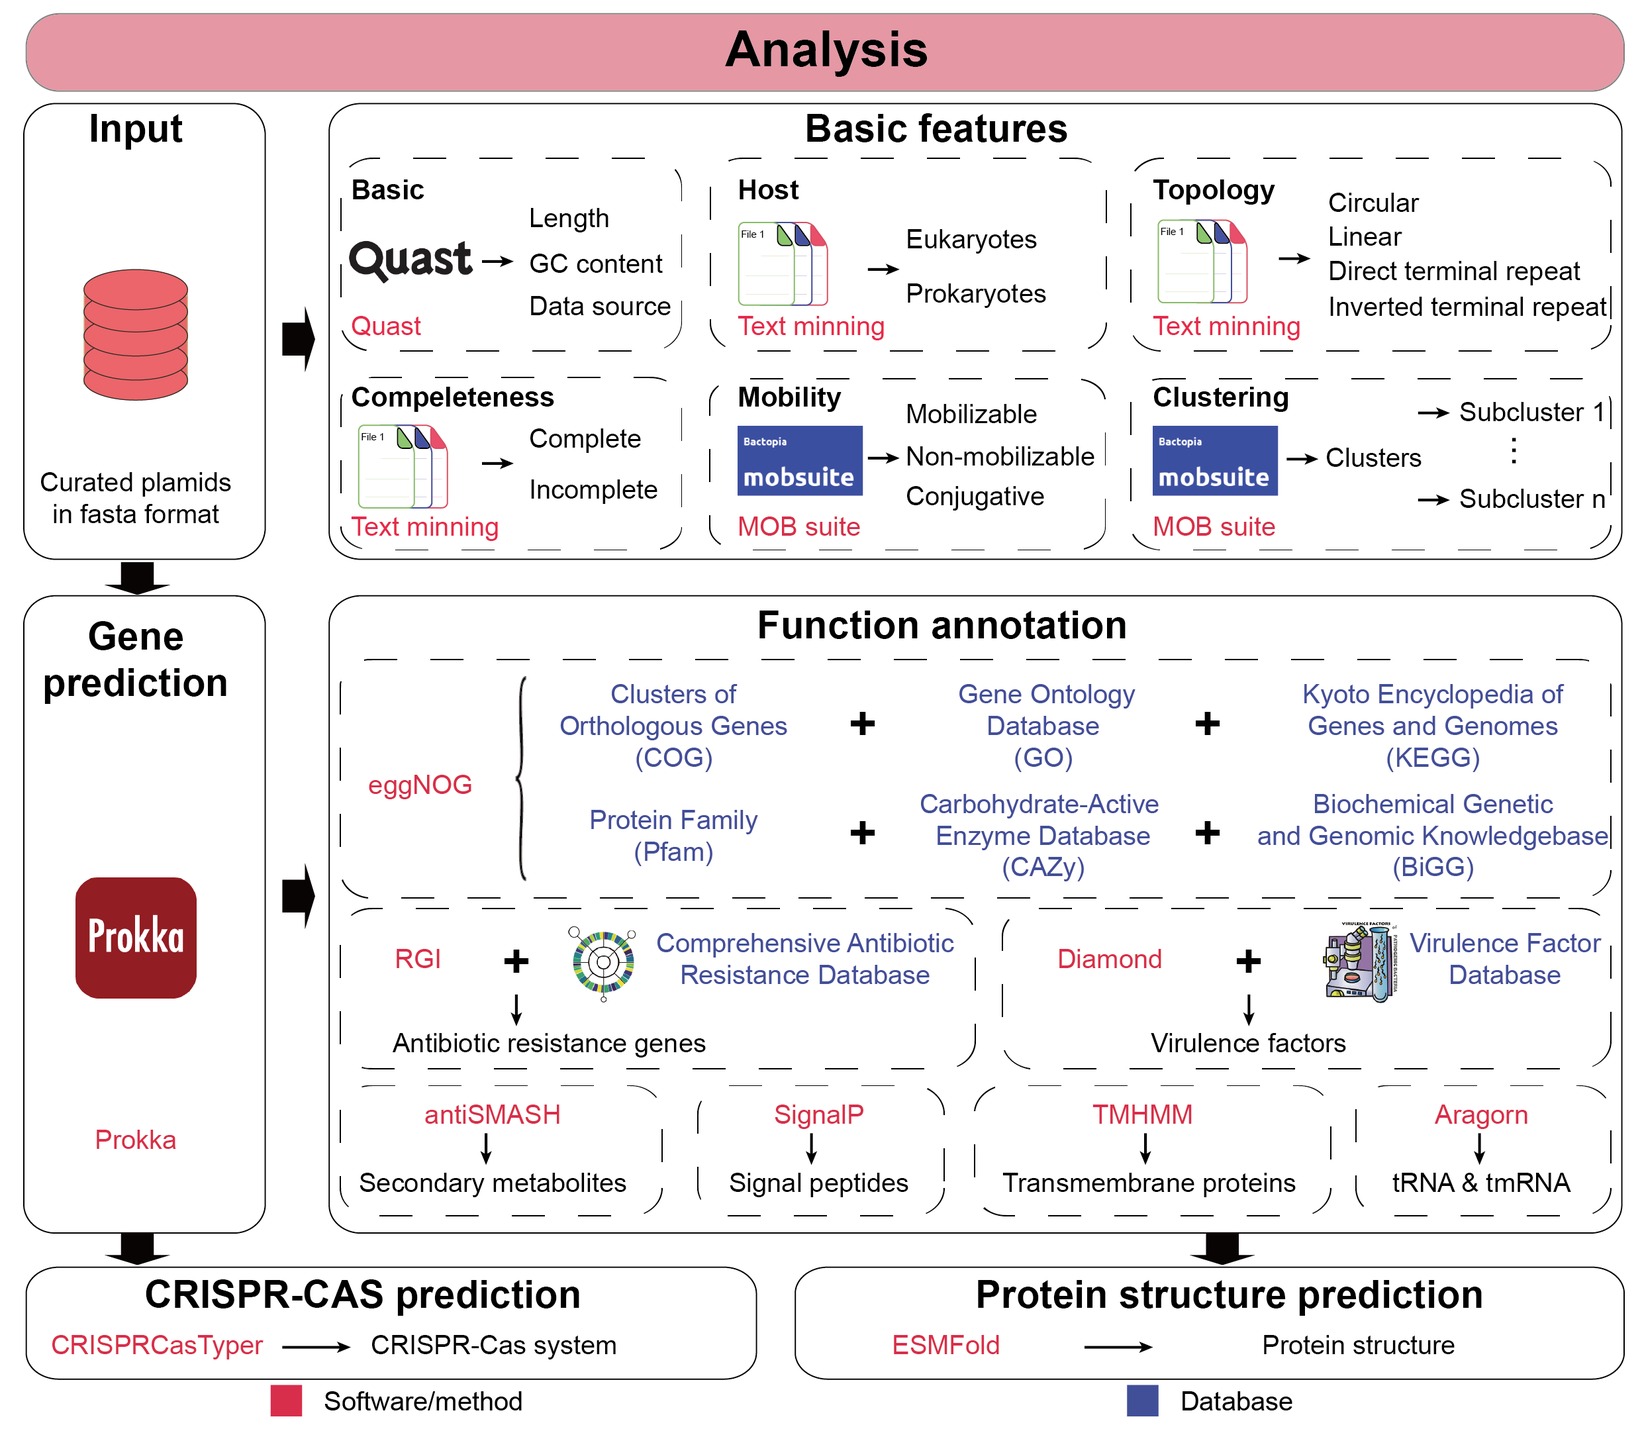
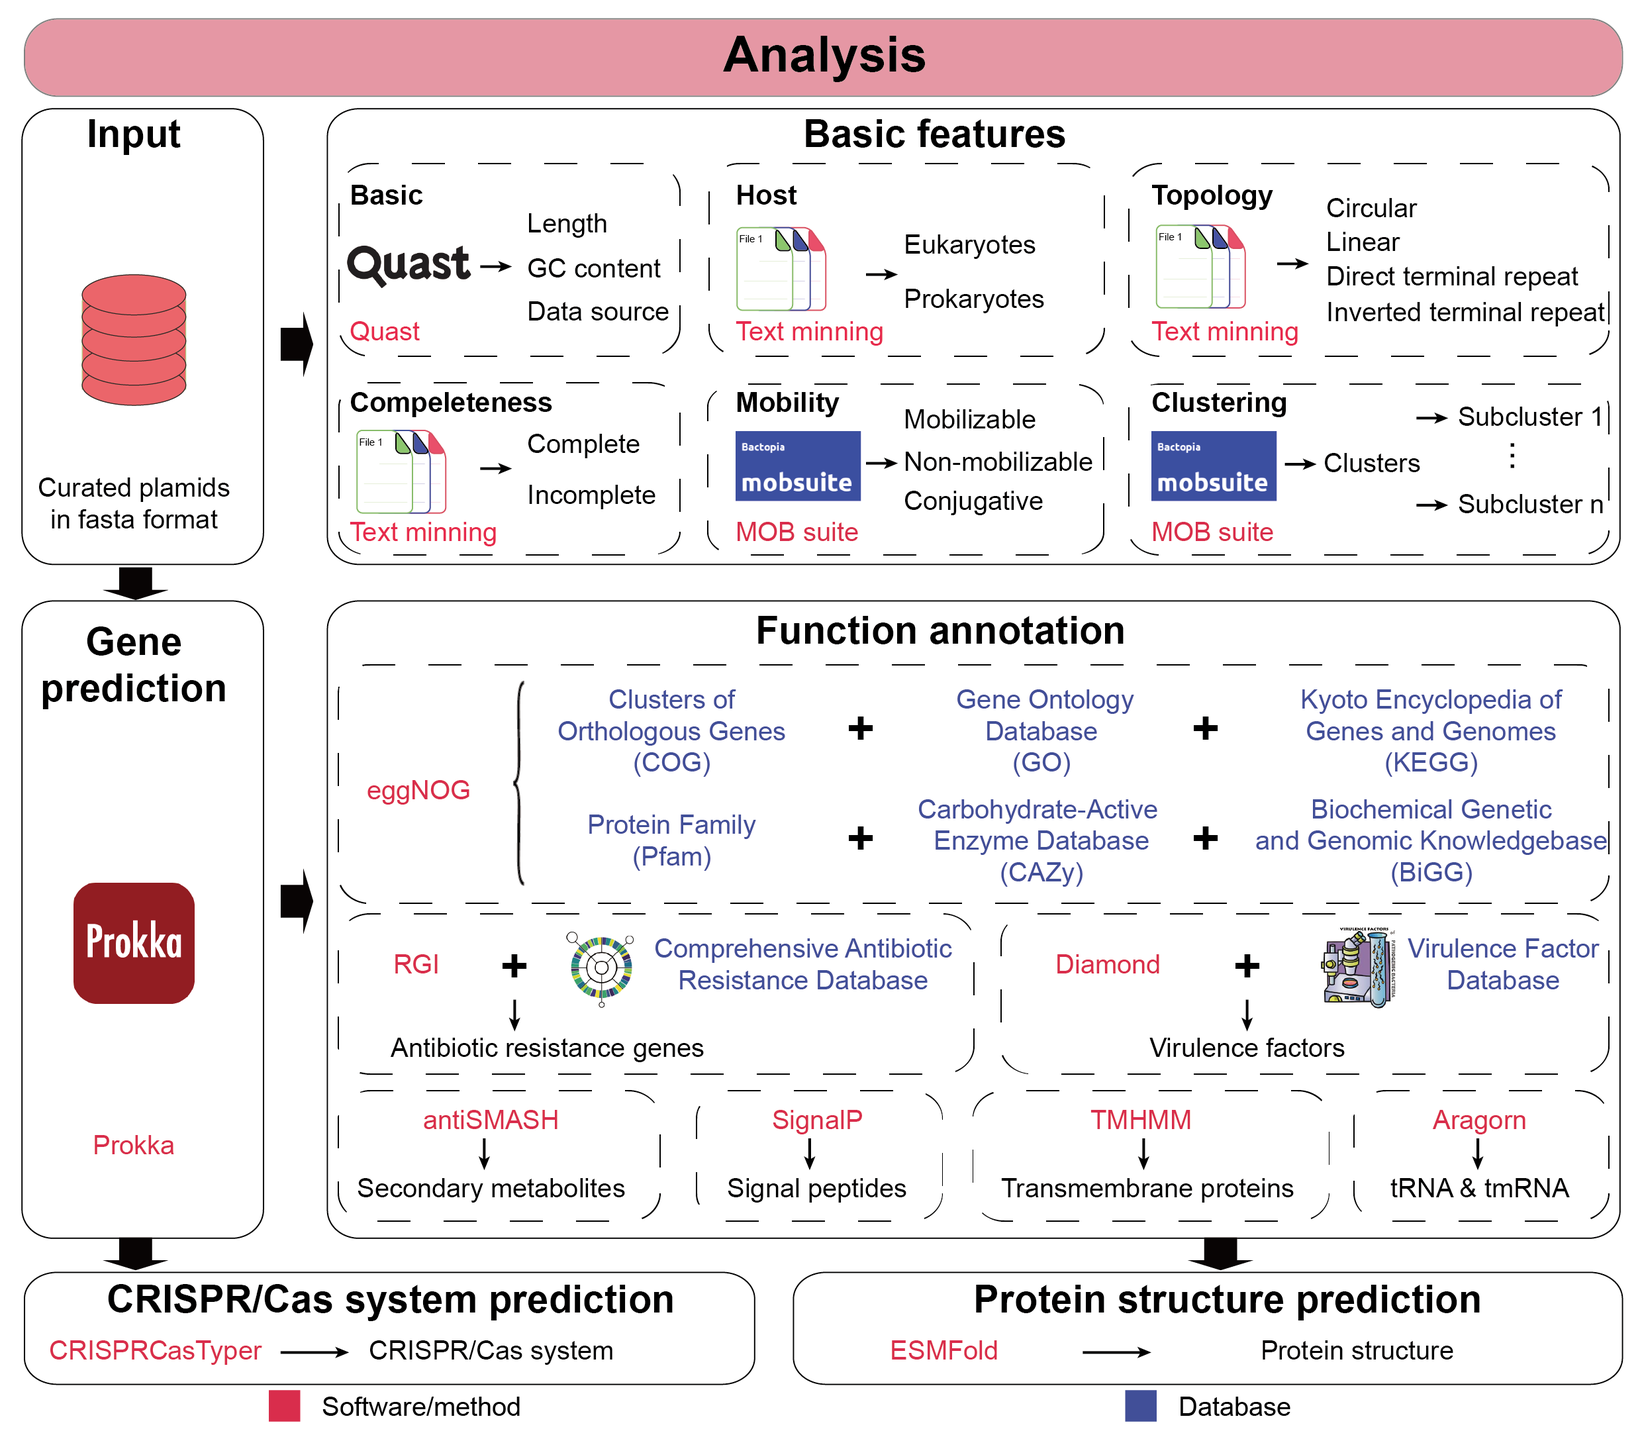
fix bug

diff --git a/src/pages/database/plasmid/crispr.vue b/src/pages/database/plasmid/crispr.vue
@@ -2,14 +2,14 @@
     <div v-show="phageStore.phagecrispr.length !== 0">
         <div>
             <div class="text-4xl font-500 mb-8 w-350 border-b-2 border-gray-300 pb-4">
-                CRISPR-Cas List
+                CRISPR/Cas system List
             </div>
             <div class="flex flex-row w-350 justify-between mb-5 mt-8">
                 <el-button @click="downloadtsv">
                     <template #icon>
                         <n-icon><di /></n-icon>
                     </template>
-                    Download CRISPR-Cas Data
+                    Download CRISPR/Cas Data
                 </el-button>
             </div>
             <div class="flex w-350">
@@ -23,7 +23,7 @@
             </div>
         </div>
 
-        <div class="text-2xl font-500 my-10">Annotated Genome Map with CRISPR-Cas</div>
+        <div class="text-2xl font-500 my-10">Annotated Genome Map with CRISPR/Cas</div>
         <div
             style="box-shadow: 0 0 64px #cfd5db"
             class="w-310 h-300 ml-15"
@@ -32,7 +32,7 @@
             <crisprcirco />
         </div>
     </div>
-    <el-dialog v-model="crisprVisible" title="CRISPR Detail" width="80%">
+    <el-dialog v-model="crisprVisible" title="CRISPR/CAS system Detail" width="80%">
         <el-descriptions class="text-lg" :column="2" size="large" border>
             <el-descriptions-item>
                 <template #label>
@@ -84,7 +84,7 @@
             </el-descriptions-item>
             <el-descriptions-item>
                 <template #label>
-                    <div class="cell-item">CRISPR-Cas Consenus Prediction</div>
+                    <div class="cell-item">CRISPR/Cas Consenus Prediction</div>
                 </template>
                 {{ crisprInfo.cas_consenus_prediction }}
             </el-descriptions-item>

diff --git a/src/pages/download/index.vue b/src/pages/download/index.vue
@@ -156,7 +156,7 @@
             </div>
             <div class="w-280 mt-10">
                 <div class="w-280 bg-[rgb(18,49,73)] text-gray-50 p-4 text-[20px] font-600">
-                    <div>CRISPR-CAS Meta Data Download</div>
+                    <div>CRISPR/Cas Meta Data Download</div>
                     <div></div>
                 </div>
 
@@ -169,7 +169,7 @@
                         <div
                             class="w-160 border-r-1 border-gray-700 h-13 flex-row flex pl-4 items-center text-[19px]"
                         >
-                            {{ source }} Plasmid CRISPR-CAS Meta Data
+                            {{ source }} Plasmid CRISPR/Cas Meta Data
                         </div>
                         <div class="w-120 flex flex-row items-center justify-start">
                             <n-button class="ml-10 w-23 h-7 text-lg" text>
@@ -179,7 +179,7 @@
                                     </n-icon>
                                 </template>
                                 <a
-                                    :href="`https://plasmidapi.deepomics.org/api/database/files/${source}/data/${source}.CRISPR-Cas_list.xls`"
+                                    :href="`https://plasmidapi.deepomics.org/api/database/files/${source}/data/${source}.CRISPR/Cas_list.xls`"
                                     target="_blank"
                                     class="btn"
                                 >

diff --git a/src/pages/task/result/annopipline/crispr.vue b/src/pages/task/result/annopipline/crispr.vue
@@ -62,7 +62,7 @@
         <el-descriptions class="w-330 text-xl ml-10" :column="1" size="large" border>
             <el-descriptions-item>
                 <template #label>
-                    <div class="cell-item">CRISPR-Cas_summary.tsv</div>
+                    <div class="cell-item">CRISPR/Cas_summary.tsv</div>
                 </template>
                 <n-button class="w-23 h-7 text-lg ml-20" text>
                     <template #icon>
@@ -314,10 +314,10 @@ const pagination = reactive({
         pagination.page = 1
     },
 })
-/// home/platform/phage_db/phage_api/workspace/user_task/1690810085_6563/output/rawdata/crispr/output/TSV/CRISPR-Cas_summary.tsv
+/// home/platform/phage_db/phage_api/workspace/user_task/1690810085_6563/output/rawdata/crispr/output/TSV/CRISPR/Cas_summary.tsv
 const urldict = computed(() => {
     return {
-        summary: `https://plasmidapi.deepomics.org/api/analysis/download_task_result_output_file/${taskdetail.value.uploadpath}/output/rawdata/crispr/output/TSV/CRISPR-Cas_summary.tsv`,
+        summary: `https://plasmidapi.deepomics.org/api/analysis/download_task_result_output_file/${taskdetail.value.uploadpath}/output/rawdata/crispr/output/TSV/CRISPR/Cas_summary.tsv`,
         report: `https://plasmidapi.deepomics.org/api/analysis/download_task_result_output_file/${taskdetail.value.uploadpath}/output/rawdata/crispr/output/TSV/Crisprs_REPORT.tsv`,
     }
 })

diff --git a/src/pages/database/function/crispr.vue b/src/pages/database/function/crispr.vue
@@ -1,7 +1,7 @@
 <template>
     <div class="h-680 flex flex-col py-5 px-20">
         <div class="flex flex-row ml-1 my-7">
-            <div class="text-4xl font-600">CRIRSPR-CAS systems Information</div>
+            <div class="text-4xl font-600">CRISPR/Cas systems Information</div>
             <el-button round color="#069" class="ml-5 mt-2" @click="godatahelper">
                 Database Helper
             </el-button>
@@ -118,7 +118,7 @@
             </el-descriptions-item>
             <el-descriptions-item>
                 <template #label>
-                    <div class="cell-item">CRISPR-Cas Consenus Prediction</div>
+                    <div class="cell-item">CRISPR/Cas Consenus Prediction</div>
                 </template>
                 {{ crisprInfo.cas_consenus_prediction }}
             </el-descriptions-item>

diff --git a/src/pages/index.vue b/src/pages/index.vue
@@ -127,7 +127,7 @@
                                 {{ overview_data.crispr }}
                             </strong>
                             <strong class="text-[#069] font-400 ml-1 text-[21px]">
-                                CRISPR-CAS systems,
+                                CRISPR/Cas systems,
                             </strong>
                             <strong class="text-2xl font-600 text-[#069] ml-1">
                                 {{ overview_data.vf }}

diff --git a/src/pages/database/index.vue b/src/pages/database/index.vue
@@ -133,7 +133,7 @@
                             show-separator
                         />
                         <template #label>
-                            <h1 class="text-[#069] text-lg font-700">CRIRSPR-CAS systems</h1>
+                            <h1 class="text-[#069] text-lg font-700">CRISPR/Cas systems</h1>
                         </template>
                     </n-statistic>
                 </div>

diff --git a/src/layouts/components/SiteHeader.vue b/src/layouts/components/SiteHeader.vue
@@ -110,7 +110,7 @@ const menuOptions: MenuOption[] = [
                         key: '/database/function/trna',
                     },
                     {
-                        label: 'CRIRSPR-CAS systems List',
+                        label: 'CRISPR/Cas systems List',
                         key: '/database/function/crispr',
                     },
                     {

diff --git a/src/pages/database/plasmid/detail.vue b/src/pages/database/plasmid/detail.vue
@@ -1,6 +1,6 @@
 <template>
-    <div class="flex flex-col mx-1/10 justify-start">
-        <div class="w-300 mt-18 ml-10">
+    <div class="m-auto w-5/6 mt-9 mb-4">
+        <div>
             <div class="flex flex-row w-350 border-b-2 border-gray-300">
                 <div class="text-4xl font-500 mb-8">Plasmid Informtion</div>
                 <div class="mt-1.5 ml-10">

diff --git a/src/pages/database/plasmid/arg.vue b/src/pages/database/plasmid/arg.vue
@@ -90,7 +90,7 @@
                 {{ detailInfo.other_snps }}
             </el-descriptions-item>
         </el-descriptions>
-        <div class="w-350 mt-6">
+        <div class="w-330 mt-6">
             <div class="flex flex-row w-350">
                 <div class="text-xl font-300 mb-4">Protein Sequence</div>
             </div>

diff --git a/docs/Database_download.md b/docs/Database_download.md
@@ -12,7 +12,7 @@ After selecting the plasmids, please click on the ``Download`` button. A popup w
 <div align=center><img src="/DB_figures/datatype_selection.png" width="1000"></div>
 
 ## Batch download 
-PlasmidScope also provides a batch download interface for users to retrieve data, including the plasmid metadata, protein metadata, secondary metabolism metadata, tRNA & tmRNA gene metadata, CRISPR-Cas system metadata, signal peptides metadata, antimicrobial resistance gene metadata, virulence factor metadata, transmembrane protein metadata, plasmid sequences in fasta format, plasmid annotations in gbk/gff3 file. Users could click ``Download`` on the navigation bar to enter the download interface.
+PlasmidScope also provides a batch download interface for users to retrieve data, including the plasmid metadata, protein metadata, secondary metabolism metadata, tRNA & tmRNA gene metadata, CRISPR/Cas system metadata, signal peptides metadata, antimicrobial resistance gene metadata, virulence factor metadata, transmembrane protein metadata, plasmid sequences in fasta format, plasmid annotations in gbk/gff3 file. Users could click ``Download`` on the navigation bar to enter the download interface.
 
 <div align=center><img src="/DB_figures/download_interface.png" width="1000"></div>
 
@@ -73,18 +73,18 @@ The metadata for all the 118,171 tRNAs & tmRNAs predicted with Aragorn. Each row
 + ``TPA plasmid tRNA & tmRNA Gene Meta Data``: The metadata for the 1 tRNA & tmRNA genes from TPA.
 + ``mMGEs plasmid tRNA & tmRNA Gene Meta Data``: The metadata for the 8,661 tRNA & tmRNA genes from mMGEs.
 
-#### CRISPR-CAS meta data download
-The metadata for all the 10,470 CRISPR-CAS systems. Each row gives the information for a CRISPR-CAS system; The columns give information about the Plasmid\_ID, Cas\_ID,  Cac\_start, Cac\_end, the subtype of Cas (Cas\_Subtype), CRISPR\_ID, CRISPR\_start, CRISPR\_end, the subtype of CRISPR (CRISPR_Subtype), the CRISPR\-Cac consenus prediction (CRISPR\-Cas Consenus Prediction), the sequence of consenus repeat (Consensus Repeat Sequence), and the Cas genes (Cas Genes).
+#### CRISPR/Cas meta data download
+The metadata for all the 10,470 CRISPR/Cas systems. Each row gives the information for a CRISPR/Cas system; The columns give information about the Plasmid\_ID, Cas\_ID,  Cac\_start, Cac\_end, the subtype of Cas (Cas\_Subtype), CRISPR\_ID, CRISPR\_start, CRISPR\_end, the subtype of CRISPR (CRISPR_Subtype), the CRISPR\-Cac consenus prediction (CRISPR\-Cas Consenus Prediction), the sequence of consenus repeat (Consensus Repeat Sequence), and the Cas genes (Cas Genes).
 
-+ ``PLSDB plasmid CRISPR-CAS Meta Data``: The metadata for the 1,482 CRISPR-CAS systems from PLSDB.
-+ ``IMG/PR plasmid CRISPR-CAS Meta Data``: The metadata for the 3,653 CRISPR-CAS systems from IMG/PR.
-+ ``COMPASS plasmid CRISPR-CAS Meta Data``: The metadata for the 489 CRISPR-CAS systems from COMPASS.
-+ ``GenBank plasmid CRISPR-CAS Meta Data``: The metadata for the 1,967 CRISPR-CAS systems from GenBank.
-+ ``RefSeq plasmid CRISPR-CAS Meta Data``: The metadata for the 2,079 CRISPR-CAS systems from RefSeq.
-+ ``EMBL plasmid CRISPR-CAS Meta Data``: The metadata for the 88 CRISPR-CAS systems from EMBL.
-+ ``Kraken2 plasmid CRISPR-CAS Meta Data``: The metadata for the 13 CRISPR-CAS systems from Kraken2.
-+ ``DDBJ plasmid CRISPR-CAS Meta Data``: The metadata for the 317 CRISPR-CAS systems from DDBJ.
-+ ``mMGEs plasmid CRISPR-CAS Meta Data``: The metadata for the 382 CRISPR-CAS systems from mMGEs.
++ ``PLSDB plasmid CRISPR/Cas Meta Data``: The metadata for the 1,482 CRISPR/Cas systems from PLSDB.
++ ``IMG/PR plasmid CRISPR/Cas Meta Data``: The metadata for the 3,653 CRISPR/Cas systems from IMG/PR.
++ ``COMPASS plasmid CRISPR/Cas Meta Data``: The metadata for the 489 CRISPR/Cas systems from COMPASS.
++ ``GenBank plasmid CRISPR/Cas Meta Data``: The metadata for the 1,967 CRISPR/Cas systems from GenBank.
++ ``RefSeq plasmid CRISPR/Cas Meta Data``: The metadata for the 2,079 CRISPR/Cas systems from RefSeq.
++ ``EMBL plasmid CRISPR/Cas Meta Data``: The metadata for the 88 CRISPR/Cas systems from EMBL.
++ ``Kraken2 plasmid CRISPR/Cas Meta Data``: The metadata for the 13 CRISPR/Cas systems from Kraken2.
++ ``DDBJ plasmid CRISPR/Cas Meta Data``: The metadata for the 317 CRISPR/Cas systems from DDBJ.
++ ``mMGEs plasmid CRISPR/Cas Meta Data``: The metadata for the 382 CRISPR/Cas systems from mMGEs.
 
 #### Signal peptides meta data download
 The metadata for all the 4,239,609 signal peptides. Each row gives the information for a signal peptides; The columns give information about the Plasmid\_ID, Protein\_ID,  the protein start site on the genome (Start), the protein stop site on the genome(End), the strand encoding the protein (Strand), the protein product (Product), the predicted type of signal peptides (Prediction), the ration of other type of protein (OTHER), the ration of SP type of signal peptide (SP(Sec/SPI)), the ration of LIPO type of signal peptide (LIPO(Sec/SPII)), the ration of TAT type of signal peptide (TAT(Tat/SPI)), the ration of TATLIPO type of signal peptide (TATLIPO(Tat/SPII)), the ration of PILIN type of signal peptide (PILIN(Sec/SPIII)), the position of CS (CS position), and the probability of CS position (Probability of CS Position).

diff --git a/docs/Database_introduction.md b/docs/Database_introduction.md
@@ -43,10 +43,10 @@ tRNA (transfer RNA) and tmRNA (transfer-messenger RNA) on plasmids play signific
 
 PlasmidScope applied **ARAGORN** [19] to detect tRNA and tmRNA genes in plasmid sequences, leading to the delineation of **117,149 tRNA** and **1022 tmRNA**.
 
-### CRISPR-Cas systems
-The CRISPR-CAS (Clustered Regularly Interspaced Short Palindromic Repeats and CRISPR-associated proteins) system is a form of adaptive immunity found in bacteria and archaea. It provides hosts with a defense mechanism against invading genetic elements such as viruses (bacteriophages) and plasmids. In addition, the CRISPR-CAS system on plasmids regulates horizontal gene transfer and enhances bacterial adaptability, offering powerful tools for synthetic biology and biotechnology.
+### CRISPR/Cas systems
+The CRISPR/Cas (Clustered Regularly Interspaced Short Palindromic Repeats and CRISPR-associated proteins) system is a form of adaptive immunity found in bacteria and archaea. It provides hosts with a defense mechanism against invading genetic elements such as viruses (bacteriophages) and plasmids. In addition, the CRISPR/Cas system on plasmids regulates horizontal gene transfer and enhances bacterial adaptability, offering powerful tools for synthetic biology and biotechnology.
 
-PlasmidScope used **CRISPRCasTyper** [20] to identify CRISPR-CAS systems on plasmids, and discovered a total of **10,470 CRISPR-CAS systems** distributed in 1,045,930 plasmids. PlasmidScope provide the type and location of the CRISPR and CAS for each CRISPR-Cas system, along with their sequences for further analysis.
+PlasmidScope used **CRISPRCasTyper** [20] to identify CRISPR/Cas systems on plasmids, and discovered a total of **10,470 CRISPR/Cas systems** distributed in 1,045,930 plasmids. PlasmidScope provide the type and location of the CRISPR and CAS for each CRISPR/Cas system, along with their sequences for further analysis.
 
 ### Secondary metabolites
 Secondary metabolites encoded by genes on plasmids can provide natural cyclic peptides with significant clinical applications, influencing the host's survival, competitiveness, and interactions with the environment. They can provide advantages in terms of antibiotic production, nutrient acquisition, defense against predators and competitors, symbiotic interactions, and environmental adaptation. The presence of these genes on plasmids also allows for their rapid spread through horizontal gene transfer, promoting the evolution and diversification of microbial populations.
@@ -91,7 +91,7 @@ Comparative genomic studies, including sequence alignment and comparative tree c
 [17] McArthur,A.G., Waglechner,N., Nizam,F., Yan,A., Azad,M.A., Baylay,A.J., Bhullar,K., Canova,M.J., De Pascale,G., Ejim,L., et al. (2013) The comprehensive antibiotic resistance database. Antimicrobial Agents and Chemotherapy, 57, 3348–3357. <br>
 [18] Alcock,B.P., Huynh,W., Chalil,R., Smith,K.W., Raphenya,A.R., Wlodarski,M.A., Edalatmand,A., Petkau,A., Syed,S.A., Tsang,K.K., et al. (2022) Card 2023: Expanded curation, support for machine learning, and resistome prediction at the comprehensive antibiotic resistance database. Nucleic Acids Research, 51, D690-D699.<br>
 [19] Laslett,D. (2004) Aragorn, a program to detect trna genes and tmrna genes in nucleotide sequences. Nucleic Acids Research, 32, 11–16.<br>
-[20] Russel,J., Pinilla-Redondo,R., Mayo-Muñoz,D., Shah,S.A. and Sørensen,S.J. (2020) CRISPRCASTYPER: Automated Identification, annotation, and classification of CRISPR-Cas Loci. The CRISPR Journal, 3, 462–469. <br>
+[20] Russel,J., Pinilla-Redondo,R., Mayo-Muñoz,D., Shah,S.A. and Sørensen,S.J. (2020) CRISPRCASTYPER: Automated Identification, annotation, and classification of CRISPR/Cas Loci. The CRISPR Journal, 3, 462–469. <br>
 [21] Blin,K., Shaw,S., Augustijn,H.E., Reitz,Z.L., Biermann,F., Alanjary,M., Fetter,A., Terlouw,B.R., Metcalf,W.W., Helfrich,E.J., et al. (2023) Antismash 7.0: New and improved predictions for detection, regulation, chemical structures and visualisation. Nucleic Acids Research, 51, W46-W50.<br>
 [22] Teufel,F., Almagro Armenteros,J.J., Johansen,A.R., Gíslason,M.H., Pihl,S.I., Tsirigos,K.D., Winther,O., Brunak,S., von Heijne,G. and Nielsen,H. (2022) SIGNALP 6.0 predicts all five types of signal peptides using protein language models. Nature Biotechnology, 40, 1023–1025. <br>
 [23] Krogh,A., Larsson,B., von Heijne,G. and Sonnhammer,E.L.L. (2001) Predicting transmembrane protein topology with a hidden Markov model: Application to complete genomes11edited by F. Cohen. Journal of Molecular Biology, 305, 567–580. <br>

diff --git a/public/docs copy/Database.md b/public/docs copy/Database.md
@@ -38,7 +38,7 @@ tRNA and tmRNA genes encode RNA molecules that play essential roles in protein s
 We applied **ARAGORN** [18] to detect tRNA and tmRNA genes in phage sequences, leading to the delineation of **391,743 tRNA** genes (**329** different tRNA molecules) and **6,153 tmRNA genes**. 
 
 ### Anti-CRISPR proteins
-Anti-CRISPR proteins are viral proteins that can inhibit the activity of CRISPR-Cas systems, which are bacterial defense mechanisms against phage infections. The annotation of anti-CRISPR proteins provides information on the presence and diversity of such proteins within the phage genomes. Understanding these proteins can shed light on the coevolutionary arms race between phages and bacteria and potentially offer insights into the development of strategies to overcome bacterial CRISPR-mediated immunity.  
+Anti-CRISPR proteins are viral proteins that can inhibit the activity of CRISPR/Cas systems, which are bacterial defense mechanisms against phage infections. The annotation of anti-CRISPR proteins provides information on the presence and diversity of such proteins within the phage genomes. Understanding these proteins can shed light on the coevolutionary arms race between phages and bacteria and potentially offer insights into the development of strategies to overcome bacterial CRISPR-mediated immunity.  
 
 To obtain comprehensive Anti-CRISPR annotations, we incorporate multiple tools to identify anti-CRISPR proteins from the PhageScope database. We first collected the anti-CRIPSR proteins from **Anti-CRISPRdb** [19] to create a local nucleotide database and aligned phage protein sequences with the database via **BLASTP** [11], with stringent criteria for reliable alignment (e-value < 1e-5 and coverage > 90%) employed to identify anti-CRISPR proteins.  
 
